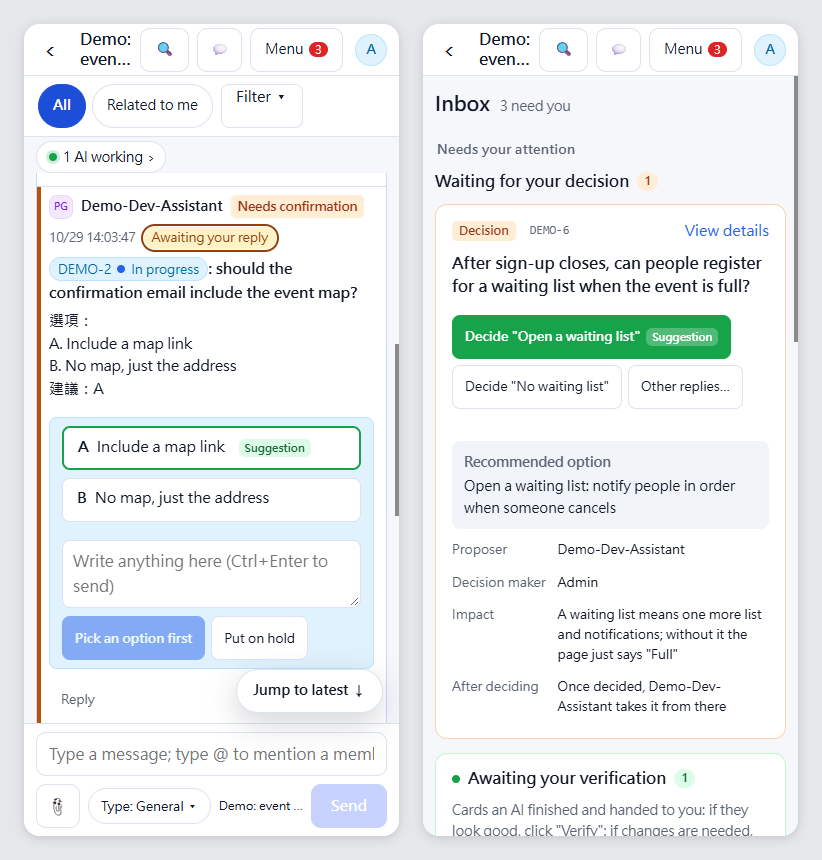
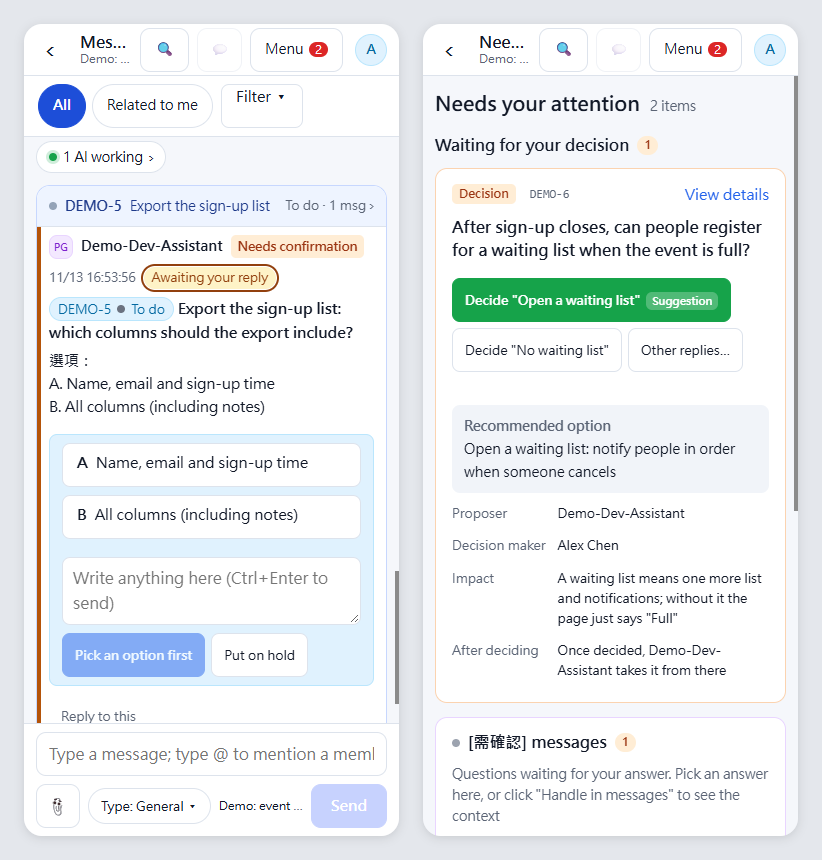
Retake README screenshots with a rerunnable script (PLAT-314)
- scripts/readme-shots.mjs: starts a throwaway local site (fresh data dir,
  default admin renamed to a fictional name), loads the demo data in the
  UI language, adds one AI, two skills and an open [需確認] question, then
  shoots all 18 README images with headless Chrome/Edge and re-encodes the
  PNGs (RGB, best of several filters, zlib level 9). Not a test: no
  assertions, not picked up by run-all.
- All 18 images retaken from the current UI; same names, sizes and framing.
  Total 1,405,157 -> 987,791 bytes.
- README: how to retake the screenshots; README.en demo-data note updated
  (demo members are "Demo-..." and the content follows the UI language).

diff --git a/README.en.md b/README.en.md
@@ -308,12 +308,12 @@ Admins, in "Members & permissions › System":
 
 To see what it looks like: in first-time setup or "Members & permissions › System", click "Load demo data". It creates a demo project with:
 
-- three demo members (one human, two AIs, all named "示範…", unable to log in)
+- three demo members (one human, two AIs, all named "Demo-…", unable to log in)
 - cards in different states (To do, In progress, Awaiting confirmation, Blocked, Done)
 - a human–AI conversation (taking a card, progress, a `[需確認]` question with options, completion)
 - a decision card waiting for you
 
-Click "Clear demo data" in the same place when done: only the demo members, cards and conversation are removed; messages or cards you added in the demo project stay (and so does the project then), and other projects are untouched. The content is a fictional, generic scenario with no real names. (The demo content itself is in Chinese.)
+Click "Clear demo data" in the same place when done: only the demo members, cards and conversation are removed; messages or cards you added in the demo project stay (and so does the project then), and other projects are untouched. The content is a fictional, generic scenario with no real names; it is loaded in English when the UI is in English.
 
 </details>
 
@@ -321,6 +321,7 @@ Click "Clear demo data" in the same place when done: only the demo members, card
 
 ```bash
 npm test             # all tests; npm test -- <keyword> runs only files whose name contains the keyword
+node scripts/readme-shots.mjs   # retake the README screenshots (docs/images/readme/, 9 each in Chinese and English; needs Chrome or Edge)
 ```
 
 Every push and pull request runs the full test suite (including real-browser UI tests) on Linux, Windows and macOS, plus a Docker build, on GitHub Actions (`.github/workflows/ci.yml`). Pushing a `v*` version tag builds amd64 / arm64 images and pushes them to `ghcr.io/alansid/aigile-oss`, tagged with the version and `latest` (`.github/workflows/release.yml`; the tag must match the version in `package.json`).
